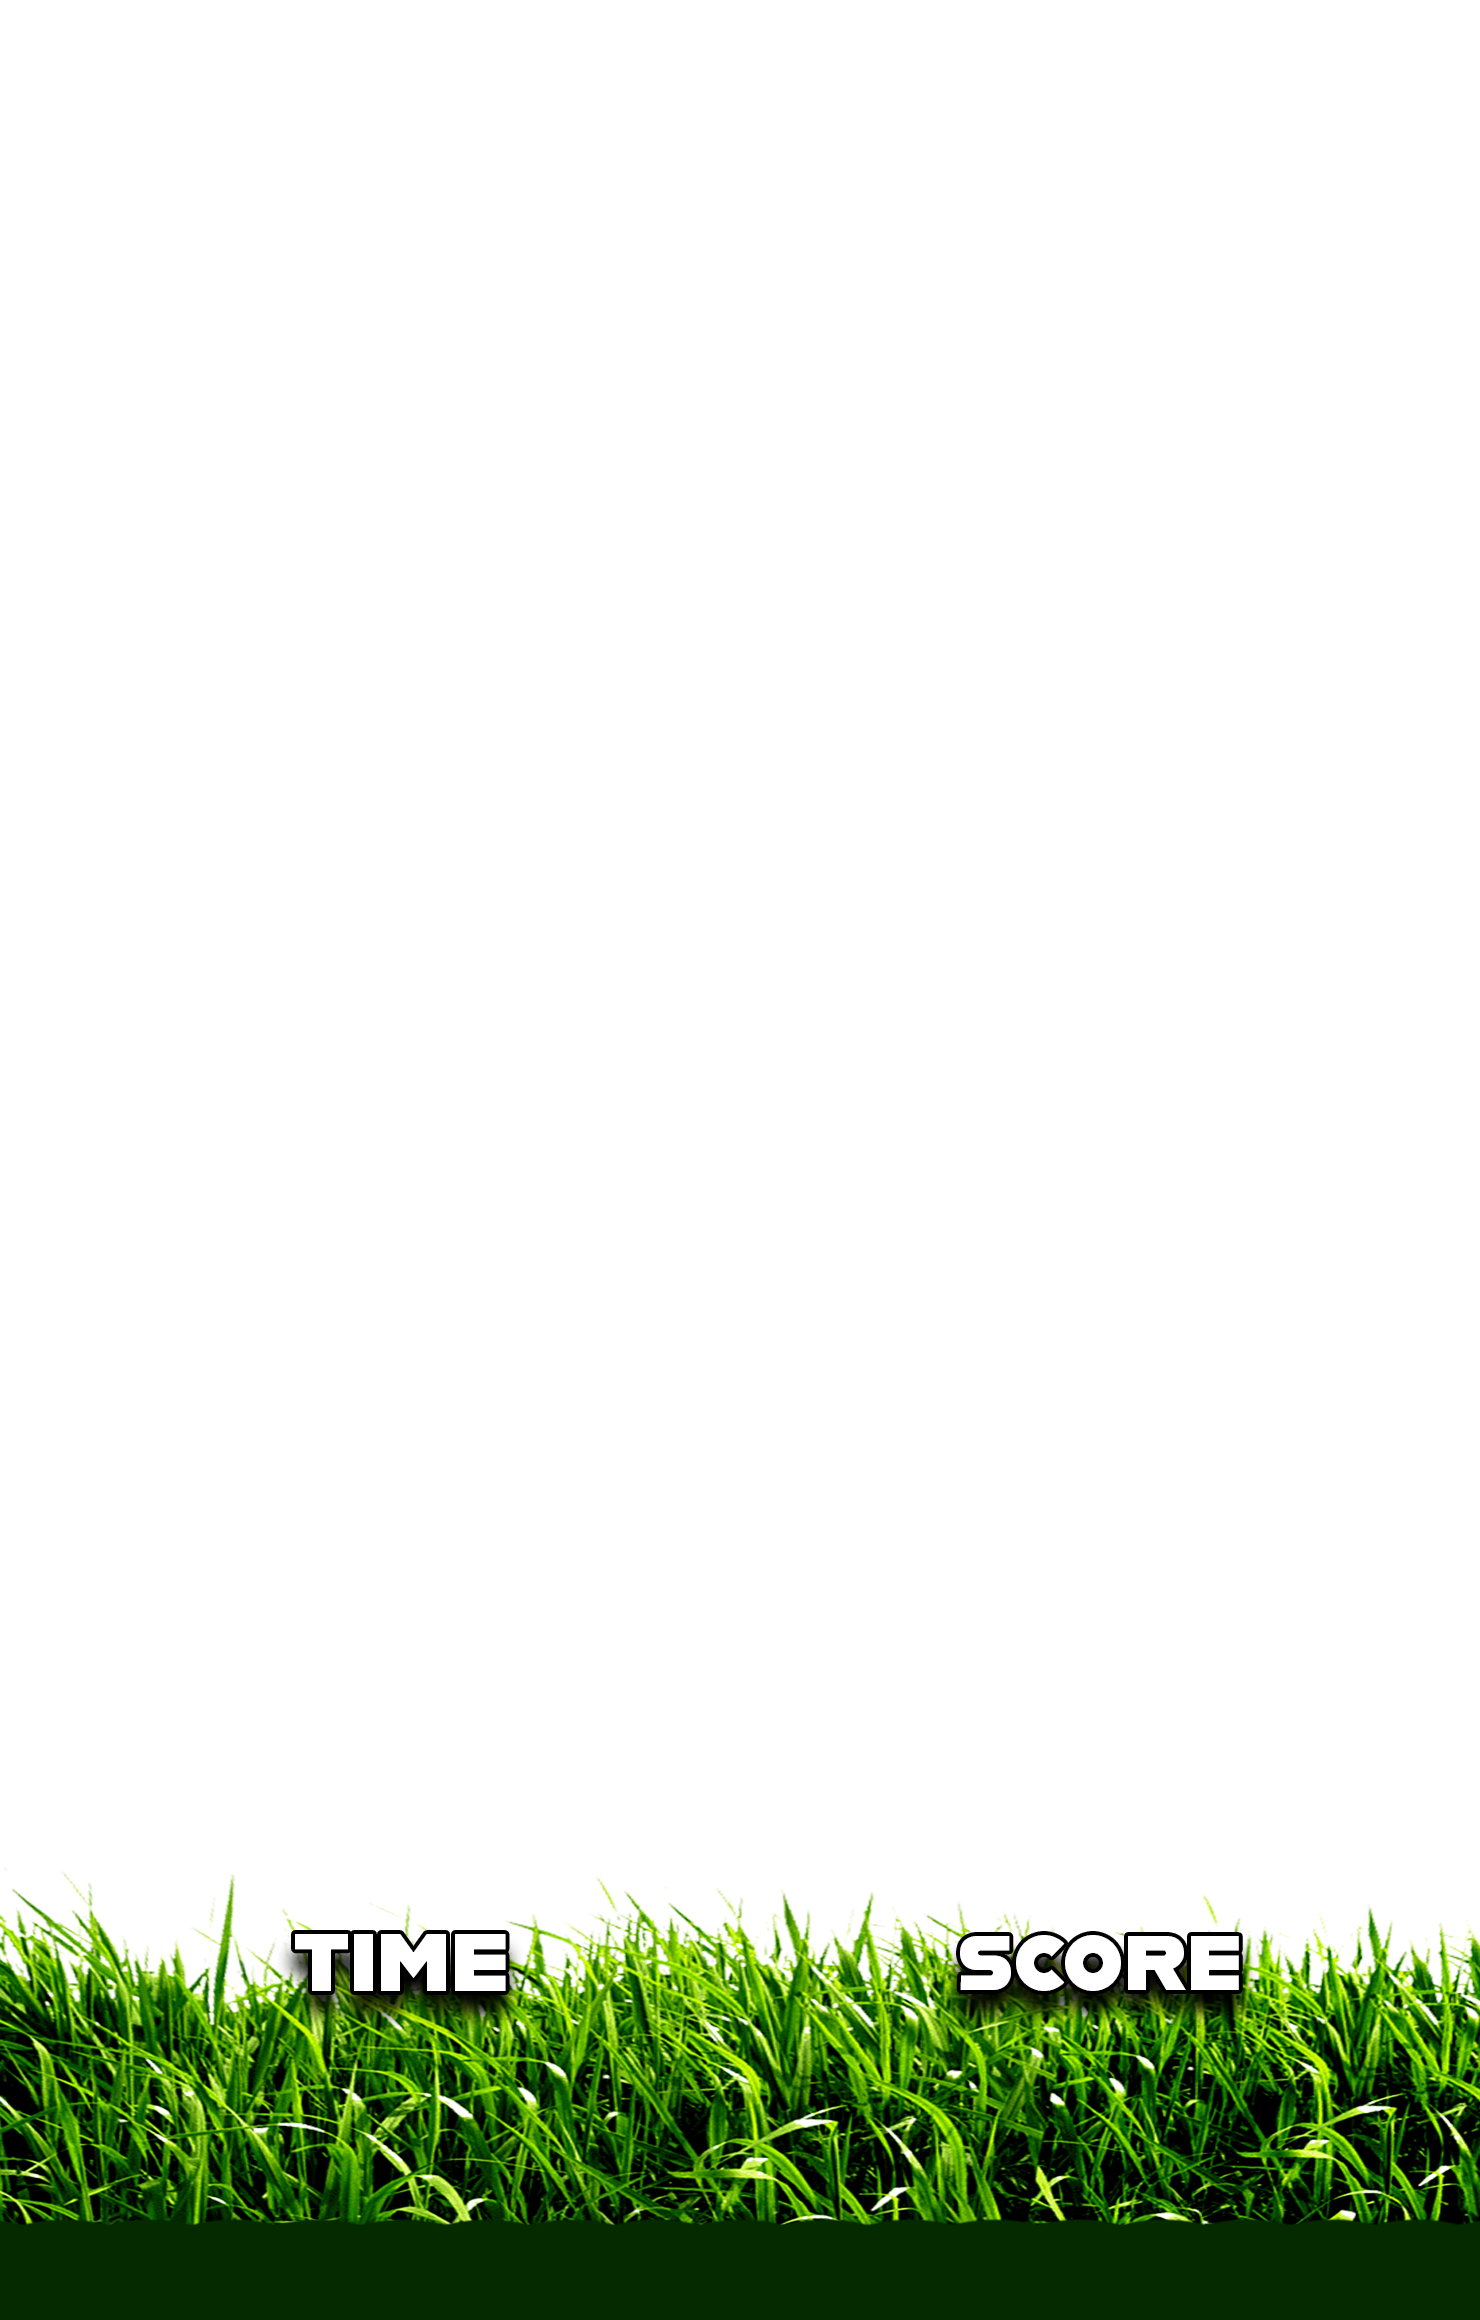
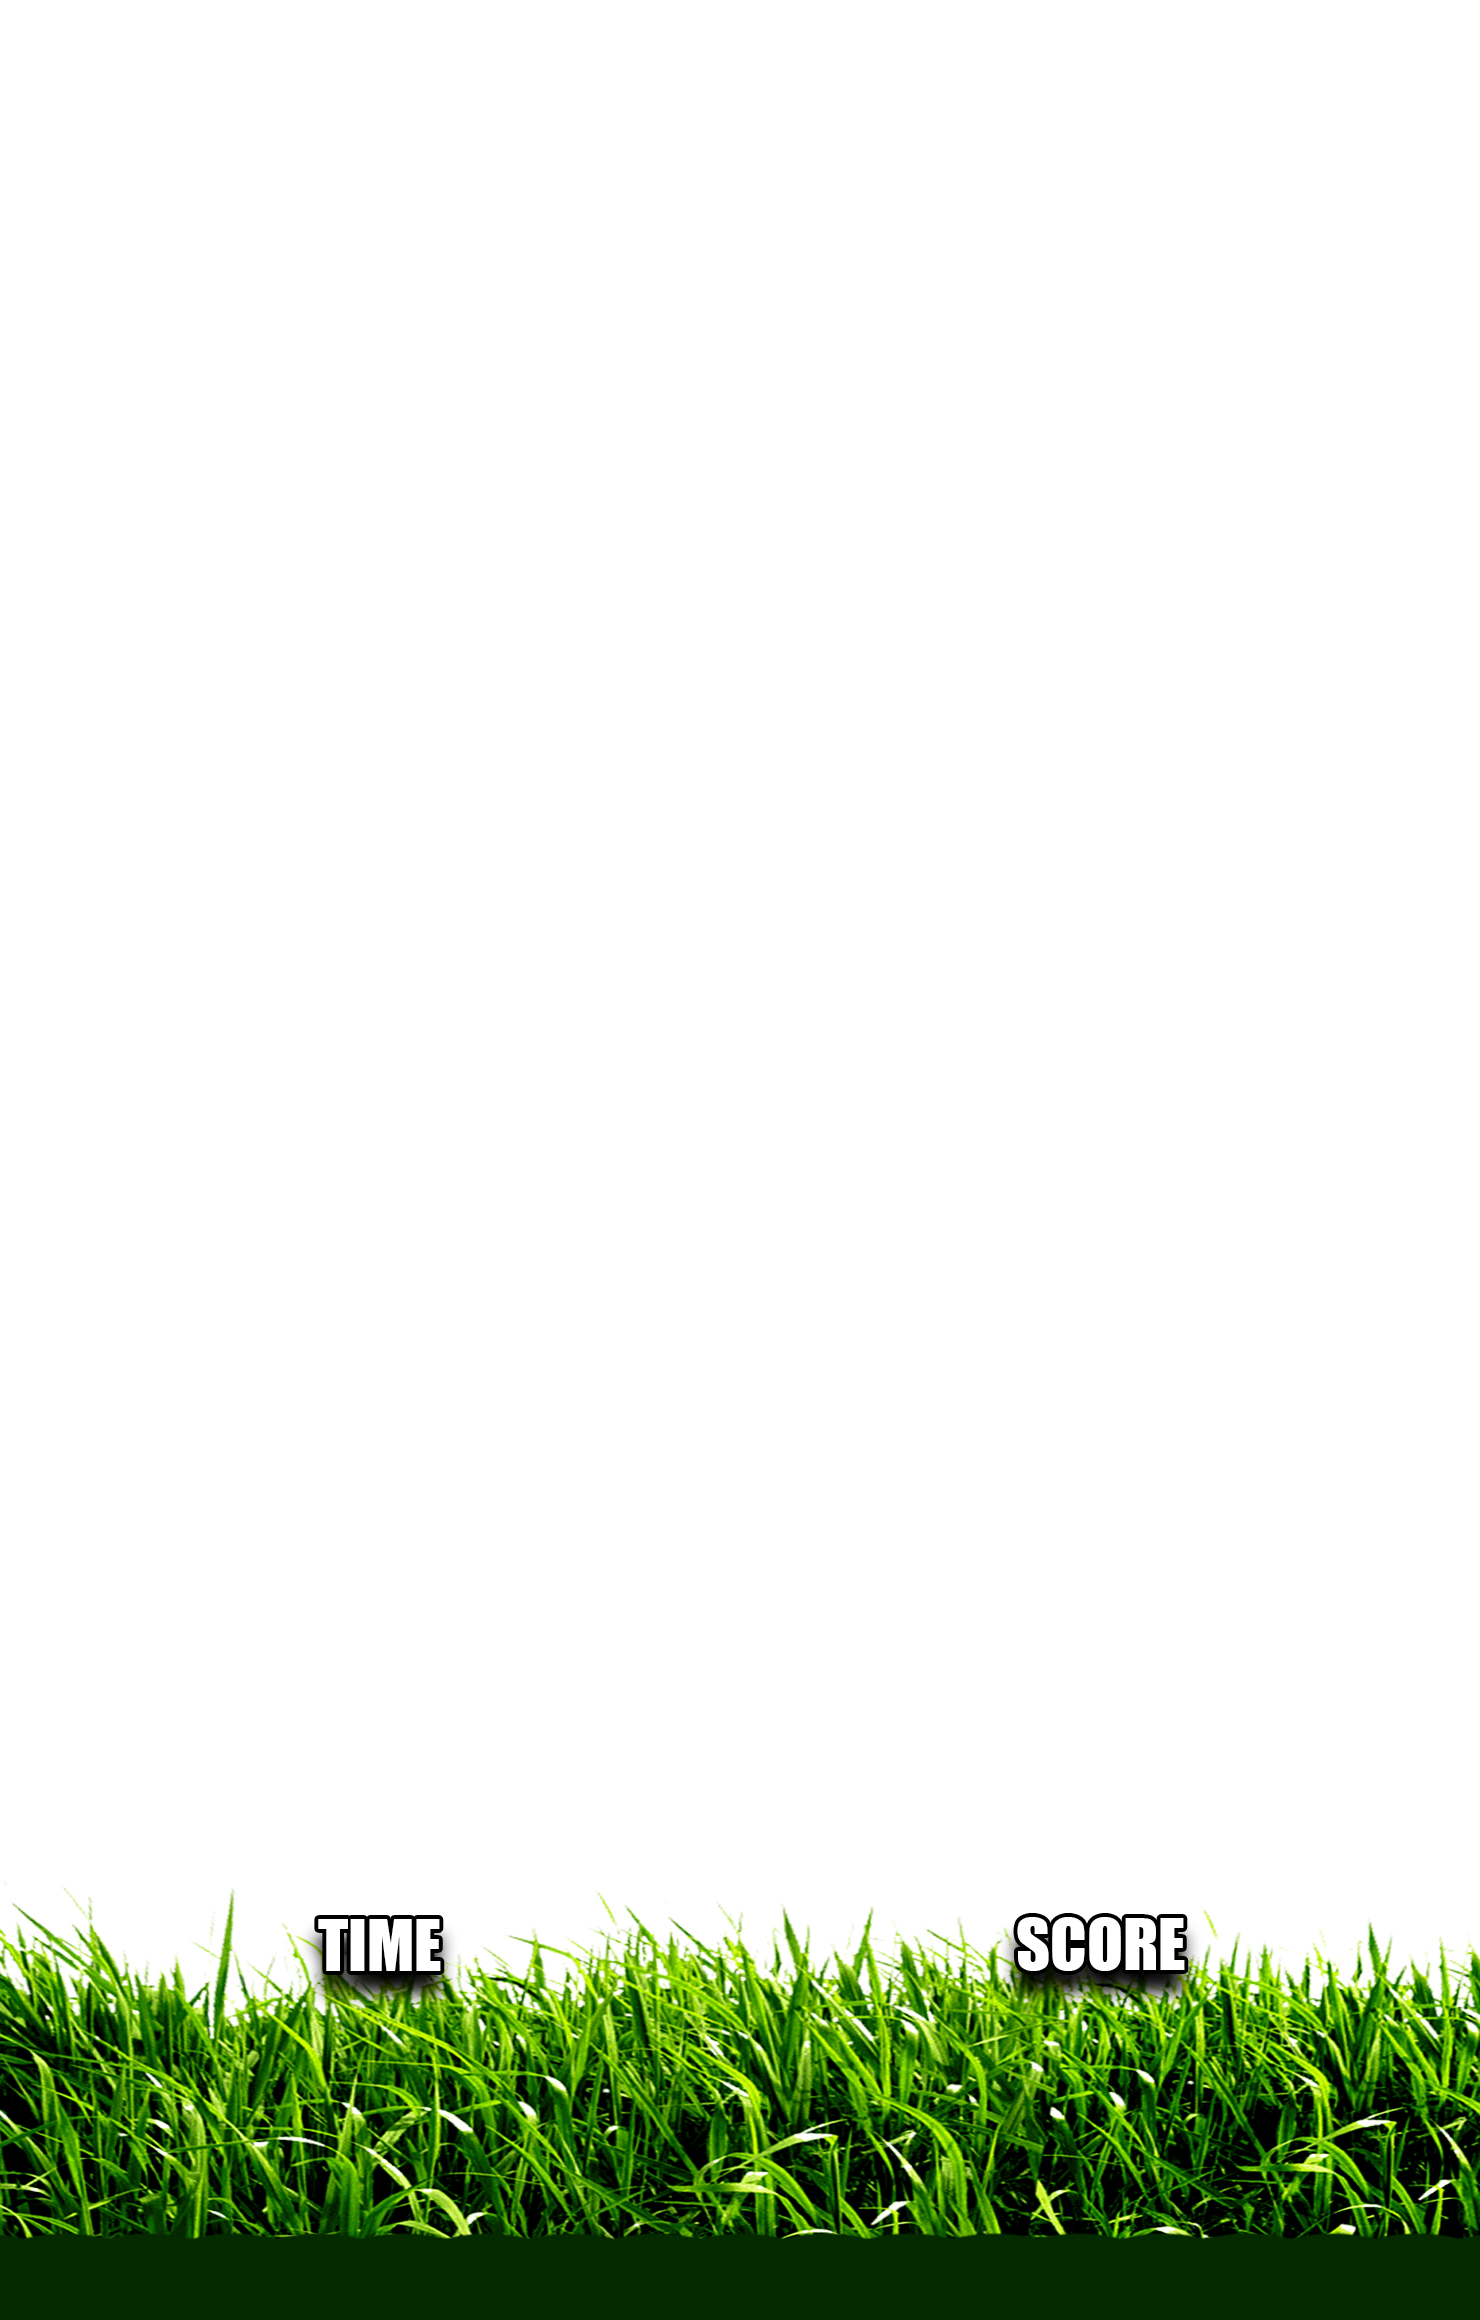
ads

Changed region(s): [[0.0, 0.8069, 1.0, 0.9621]]

diff --git a/index.html b/index.html
@@ -501,7 +501,7 @@
       </div>
 
       <button class="start-btn" id="continueBtn">Continue</button>
-      <div style="margin-top: 0.8rem; font-size: 1.5rem; font-weight: 900; color: rgba(255,255,255,0.4); letter-spacing: 1px;">v10.6</div>
+      <div style="margin-top: 0.8rem; font-size: 1.5rem; font-weight: 900; color: rgba(255,255,255,0.4); letter-spacing: 1px;">v10.9</div>
     </div>
   </div>
 
@@ -691,11 +691,11 @@
     let kickSheetLoaded = false;
     kickSheet.onload = () => { kickSheetLoaded = true; };
 
-    const KICK_COLS = 5;
+    const KICK_COLS = 7;
     const KICK_CELL_W = 256;
     const KICK_CELL_H = 412;
-    const KICK_TOTAL = 5;
-    const KICK_FRAME_DURATION = 4; // frames per animation frame (~67ms each, ~330ms total)
+    const KICK_TOTAL = 7;
+    const KICK_FRAME_DURATION = 8; // frames per animation frame (~133ms each, ~660ms total)
 
     let kickAnim = {
       playing: false,
@@ -1189,11 +1189,19 @@
       //    Positive deviation = finger went RIGHT of center → ball curves LEFT
       const spinDeviation = calculateSpinDeviation(pts);
 
-      // Fire the kick with a tiny delay so player sees the full trail
+      // Start kick animation immediately
       kickFired = true;
+      kickAnim.playing = true;
+      kickAnim.frame = 0;
+      kickAnim.timer = 0;
+      kickAnim.x = ball.homeX;
+      kickAnim.y = ball.homeY;
+
+      // Delay ball launch to sync with foot contact (frame 3 of kick anim)
+      const contactDelay = KICK_FRAME_DURATION * 2.5 * (1000 / 60); // ~333ms
       setTimeout(() => {
         fireKick(dx, dy, swipeSpeed, spinDeviation);
-      }, 120);
+      }, contactDelay);
 
       allTouchPoints = [];
     }
@@ -1284,13 +1292,6 @@
       ball.phase = 'flight';
       ball.visualScale = ball.restingScale;
       ballTrail = []; // clear trail for fresh kick
-
-      // Trigger kick leg animation — foot meets ball at its home position
-      kickAnim.playing = true;
-      kickAnim.frame = 0;
-      kickAnim.timer = 0;
-      kickAnim.x = ball.homeX;
-      kickAnim.y = ball.homeY;
       ball.spin = spinAmount;
       ball.rotation = 0;
       ball.rotationSpeed = spinAmount * 0.12;
@@ -1916,18 +1917,15 @@
       const sx = frame * KICK_CELL_W;
       const sy = 0;
 
-      // The sprite should span from the left edge of the screen to the ball
-      // The foot (right side of sprite) makes contact with the ball
-      // Scale so the sprite width reaches from x=0 to ball.homeX + some overshoot
-      const targetWidth = kickAnim.x + 40; // extend a bit past the ball
+      // Sprite spans from left edge well past the ball
+      const targetWidth = kickAnim.x + 120; // extend further past the ball
       const drawScale = targetWidth / KICK_CELL_W;
       const drawW = targetWidth;
       const drawH = KICK_CELL_H * drawScale;
 
-      // Position: left edge at screen left, foot (right-center area) at ball position
-      // The foot in the sprite is roughly at 75% of the width and 80% of the height
-      const drawX = 0;
-      const drawY = kickAnim.y - drawH * 0.75;
+      // Left edge starts off-screen left for more leg visible
+      const drawX = -40;
+      const drawY = kickAnim.y - drawH * 0.72;
 
       ctx.save();
       ctx.drawImage(
@@ -2366,7 +2364,7 @@
       ctx.shadowColor = 'rgba(0,0,0,0.7)';
       ctx.shadowBlur = 6;
       ctx.fillStyle = ringColor;
-      ctx.font = 'bold 54px Arial';
+      ctx.font = 'bold 54px Impact';
       ctx.textAlign = 'center';
       ctx.textBaseline = 'middle';
       ctx.fillText(timeLeft, ringX, ringCY + 1);
@@ -2431,25 +2429,24 @@
       ctx.shadowColor = 'rgba(0,0,0,0.7)';
       ctx.shadowBlur = 8;
       ctx.fillStyle = '#fff';
-      ctx.font = 'bold 54px Arial';
+      ctx.font = 'bold 54px Impact';
       ctx.textAlign = 'center';
       ctx.textBaseline = 'middle';
       ctx.fillText(score, scoreX, scoreCY + 1);
       ctx.restore();
 
-      // ── BONUS text above score circle ──
+      // ── Multiplier text at top of score circle ──
       if (alive < 3) {
         const mult = alive === 1 ? '3X' : '2X';
-        const multColor = alive === 1 ? '#B8860B' : '#CC3333';
 
         ctx.save();
         ctx.shadowColor = 'rgba(0,0,0,0.8)';
         ctx.shadowBlur = 6;
-        ctx.fillStyle = multColor;
-        ctx.font = 'bold 28px Arial';
+        ctx.fillStyle = '#fff';
+        ctx.font = 'bold 24px Impact';
         ctx.textAlign = 'center';
         ctx.textBaseline = 'bottom';
-        ctx.fillText(mult + ' BONUS', scoreX, scoreCY - scoreR - 12);
+        ctx.fillText(mult, scoreX, scoreCY - scoreR + 22);
         ctx.restore();
       }
     }
